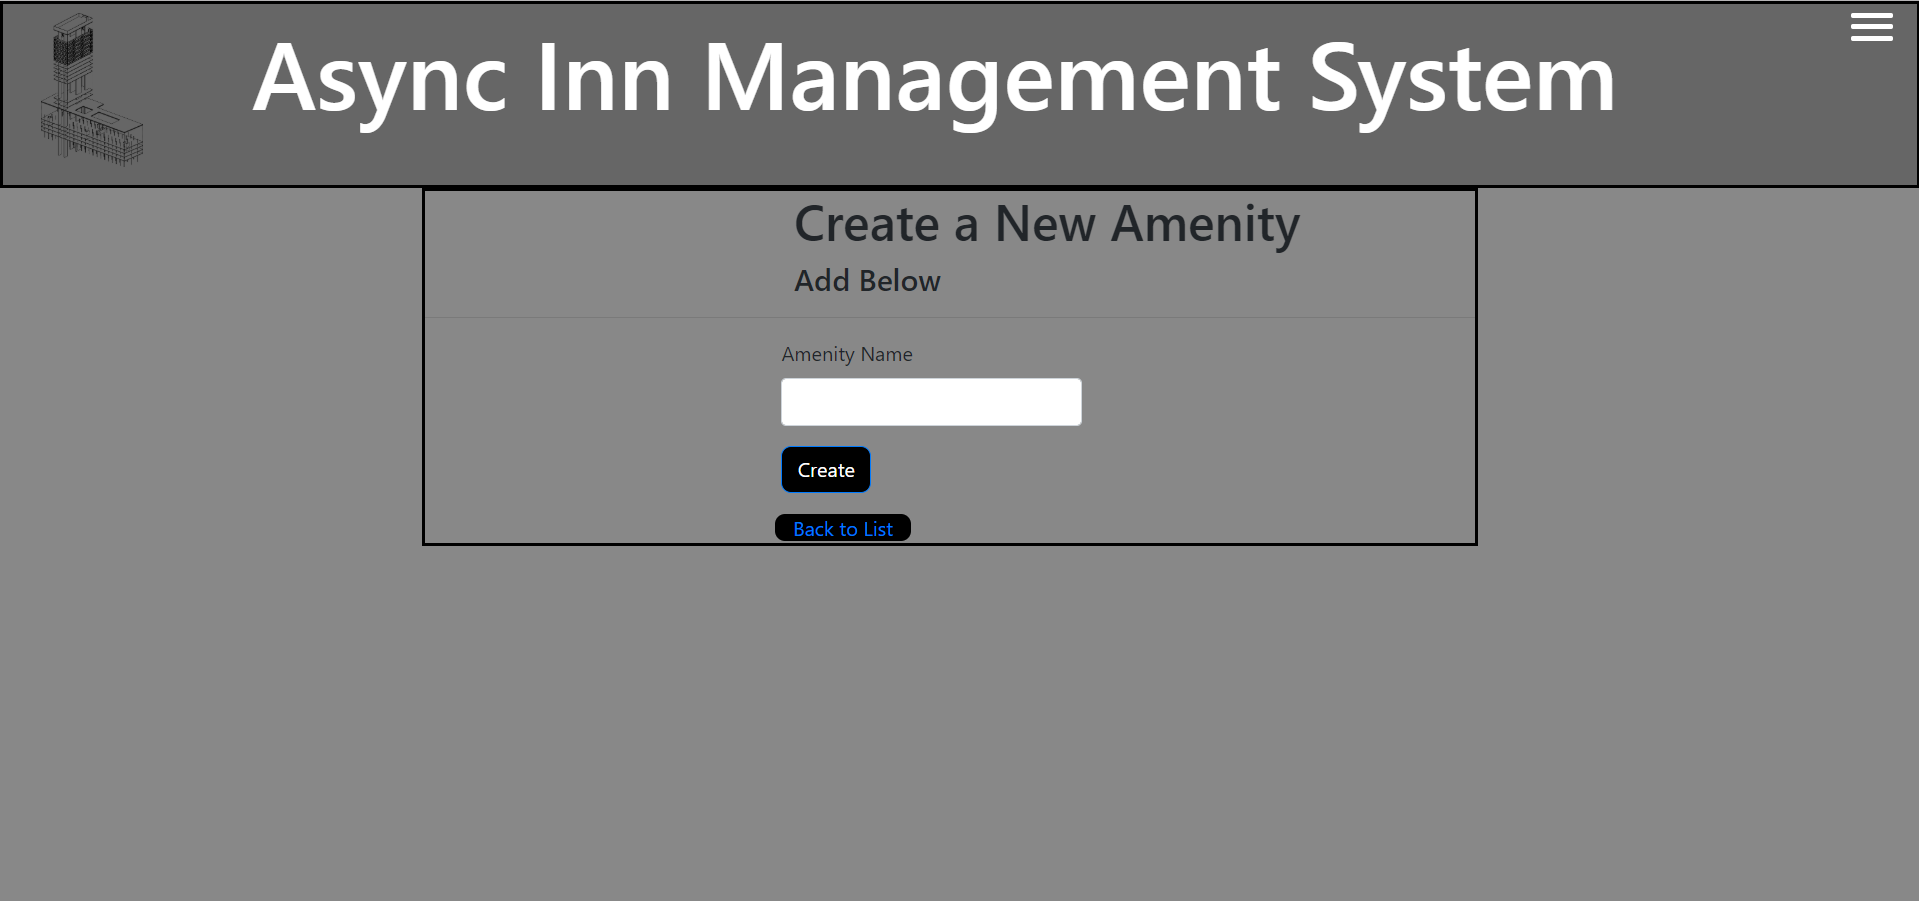
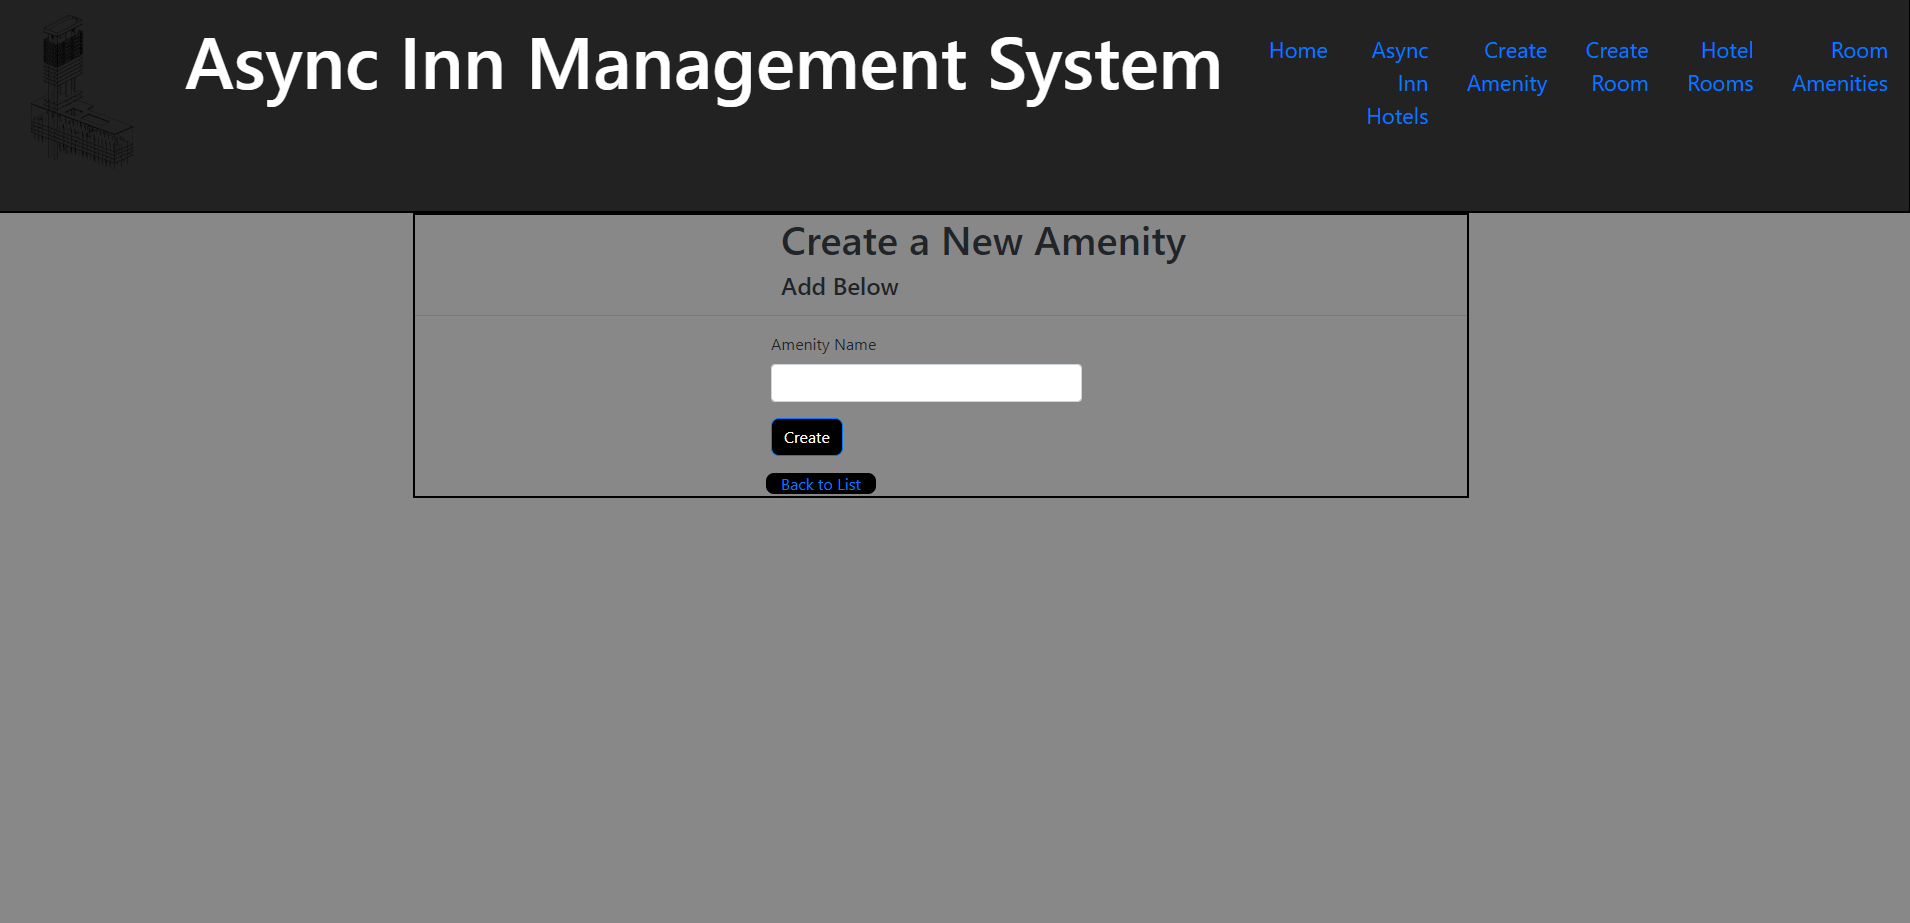
updated readme, fully functional interfaces/services

diff --git a/Async_Inn/Async_Inn/wwwroot/ControllerHead.css b/Async_Inn/Async_Inn/wwwroot/ControllerHead.css
@@ -143,10 +143,9 @@ a:hover {
         margin-left: 22vw;
     }
 /*********** greater than mobile - desktop view *********************/
-/*@media screen and (min-width: 960px) {
+@media screen and (min-width: 960px) {
 
     header {
-        position: fixed;
         width: 100%;
         height: 11.4vw;
         background-color: #222;
@@ -205,22 +204,9 @@ a:hover {
         position: relative;
         padding-right: 2vw;
         float: right;
-        right: 50px;
+        right: 105px;
         z-index: 1;
     }
-
-        #navToggle input {
-            display: block;
-            width: 40px;
-            height: 32px;
-            position: absolute;
-            top: -7px;
-            right: -5px;
-            cursor: pointer;
-            opacity: 0;
-            z-index: 2;
-        }
-
         #navToggle span {
             display: none;
 
@@ -234,13 +220,13 @@ a:hover {
 
     #index-contain {
         height: 9vw;
-        width: 55vw;
+        width: 70vw;
         text-align: left;
     }
 
     #index-title {
-        font-size: 5vw;
+        font-size: 3.8vw;
         color: #fff;
         padding-left: 10vw;
     }
-}*/
+}

diff --git a/Async_Inn/Async_Inn/Startup.cs b/Async_Inn/Async_Inn/Startup.cs
@@ -29,7 +29,7 @@ namespace Async_Inn
             services.AddMvc();
             services.AddDbContext<AsyncInnDbContext>(options => options.UseSqlServer(Configuration.GetConnectionString("DefaultConnection")));
 
-            services.AddScoped<IAmenitiesManager, AmenitiesManagementServices>();
+            services.AddScoped<IAmenitiesManager, AmenitiesManagementServices>(); /// registering interfaces
             services.AddScoped<IHotelManager, HotelManagementServices>();
             services.AddScoped<IRoomManager, RoomManagementServices>();
 

diff --git a/Async_Inn/Async_Inn/Controllers/AmenitiesController.cs b/Async_Inn/Async_Inn/Controllers/AmenitiesController.cs
@@ -14,9 +14,9 @@ namespace Async_Inn.Controllers
 {
     public class AmenitiesController : Controller
     {
-        private readonly IAmenitiesManager _context;
+        private readonly IAmenitiesManager _context; /// pulling in interface
 
-        public AmenitiesController(IAmenitiesManager context)
+        public AmenitiesController(IAmenitiesManager context) ///setting new interface as output for controller 
         {
             _context = context;
         }

diff --git a/README.md b/README.md
@@ -1,27 +1,51 @@
 # AsyncInn
 
-### Database Schema 
-![SCHEMA](https://github.com/ntibbals/AsyncInn/blob/master/Assets/SchemaAsyncInn.png)
-
 ### Introduction
 
-- This is a Hotel management system for "Async Inn". It utilizes the Schema above to manage the data within a SQL database. The database is comprised of five tables listed with each relationship listed below:
+- This is a Hotel management system designed for "Async Inn". The application is intended to assist with management of the hotel chains assets. It allows an administrator the ability to add new hotel locations, find existing hotel locations, add new rooms, add new amenities, associate amenities with specific rooms, as well as manipulate the assets by editing, deleting, creating a room rate and assigning rooms specific numbers. 
 
+### Specifications
+
+- The data persists within a SQL database. The database is comprised of five tables listed with each relationship listed below:
+- 
 - The Hotel table has a one to many relaitonship with the Hotel Room table with one primary key.
 - The Hotel Room table has a many to many relationship with the Hotel AND Room table along with two concrete keys of Hotel ID and Room Number.
 - The Room table has a one to many relationship with the Hotel Room AND Room Amenities table. It also includes a enum for each potential room layout along with one primary key.
 - The Room Amenities table has a manay to many relationship with the Room AND Amenities table along with two concrete keys of Ameniteis ID and Room ID.
 - The Amenities table has a one to many relationship wit hthe Room Amenities table along with one primary key.
 
+### System Design 
+![SCHEMA](https://github.com/ntibbals/AsyncInn/blob/master/Assets/SchemaAsyncInn.png)
+
 ### Navigation
 
 - From the home page, you can navigate to "Create Hotel" page, "Create Room" page, "Create Amenity" page, as well as pages for the "Hotel Room" association and "Room Amenity" association.
 
 ### Visual
+
+#### Home page
+
 ![SCHEMA](https://github.com/ntibbals/AsyncInn/blob/master/Assets/index.PNG)
 
-![SCHEMA](https://github.com/ntibbals/AsyncInn/blob/master/Assets/create-am.PNG)
+#### Hotels navigation page
+![SCHEMA](https://github.com/ntibbals/AsyncInn/blob/master/Assets/hotel-in.PNG)
 
+#### Create new hotel
 ![SCHEMA](https://github.com/ntibbals/AsyncInn/blob/master/Assets/create-hotel.PNG)
 
+#### Rooms navigation page
+![SCHEMA](https://github.com/ntibbals/AsyncInn/blob/master/Assets/room-in.PNG)
+
+#### Create a new room
 ![SCHEMA](https://github.com/ntibbals/AsyncInn/blob/master/Assets/create-room.PNG)
+
+#### Amenities navigation page
+![SCHEMA](https://github.com/ntibbals/AsyncInn/blob/master/Assets/Amen-in.PNG)
+
+#### Create a new amenity
+![SCHEMA](https://github.com/ntibbals/AsyncInn/blob/master/Assets/create-am.PNG)
+
+
+
+
+
